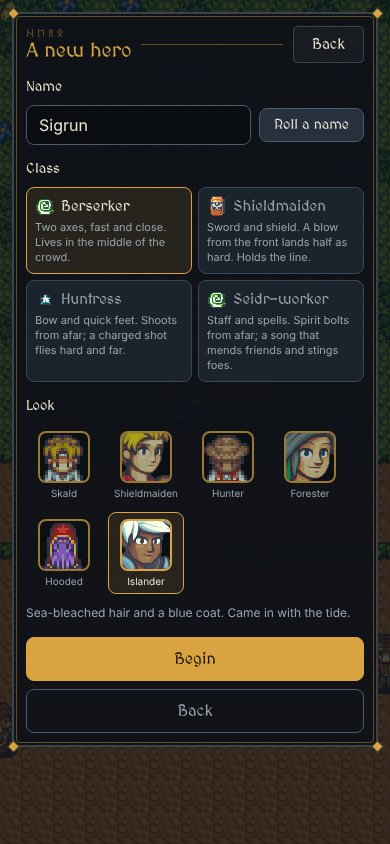
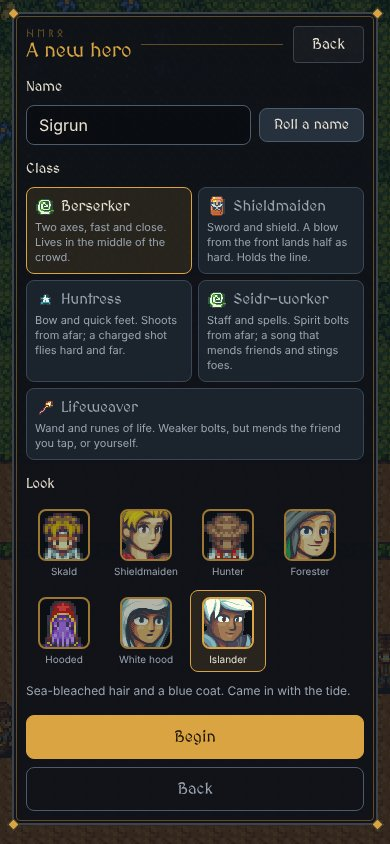
Wolf Age: the Lifeweaver, a fifth class, in the guides (#9)
Claude-Session: https://claude.ai/code/session_01782qVdpWQbS5EEfmEgoWu7

Changed region(s): [[0.0308, 0.4621, 0.9846, 0.9858], [0.9231, 0.4621, 0.9538, 0.5237]]

diff --git a/wolf-age/HANDBOOK.md b/wolf-age/HANDBOOK.md
@@ -98,6 +98,8 @@ You choose a class when you make a hero. It decides your weapons, your two arts 
 |  |  | Thorn Ring | 14 | 8 s | Loose a ring of arrows all round. |
 | **Seidr-worker** | Staff and spells. Spirit bolts from afar; a song that mends friends and stings foes. | Spirit Walk | 10 | 7 s | Step through the weave and strike where you land. |
 |  |  | Galdr Song | 18 | 10 s | Mend every friend near you by a third of their health, and sting the foes about you. |
+| **Lifeweaver** | Wand and runes of life. Weaker bolts, but mends the friend you tap, or yourself. | Eir's Touch | 12 | 7 s | Mend the friend you tapped by a fifth of their health; with none tapped, whoever near is most hurt, you too. |
+|  |  | Shelter Rune | 16 | 10 s | A rune on the friend you tapped, or on you: blows land 30% lighter for 5 seconds, and it bursts on the beasts about them. |
 
 ## The skill trees
 
@@ -319,6 +321,52 @@ Health, life from every kill, and the four blessings. Its three columns: Bone, L
 
 Fire from Muspelheim, storm from Asgard, frost from Niflheim: spells for every class. The same for every class: see [the Nine Worlds](#nine-worlds) under the Berserker.
 
+### Lifeweaver
+
+#### Mending
+
+Your two arts and the bond that mends the friend you tapped. Its three columns: Eir's Touch, Bond, Shelter Rune.
+
+| Skill | Opens at | Ranks | Needs first | What it does |
+| --- | --- | --- | --- | --- |
+| Eir's Touch | 1 | 5 (top at level 43) | nothing | Mend the friend you tapped by a fifth of their health; with none tapped, whoever near is most hurt, you too. Each rank makes it stronger, +120% at rank 5. |
+| Life Thread | 6 | 5 (top at level 48) | nothing | 3% (27% at rank 5) more of the harm you deal mends the friend you tapped. |
+| Shelter Rune | 4 | 5 (top at level 46) | nothing | A rune on the friend you tapped, or on you: blows land 30% lighter for 5 seconds, and it bursts on the beasts about them. Each rank makes it stronger, +120% at rank 5. |
+| Soft Hands | 8 | 5 (top at level 50) | Eir's Touch | Eir's Touch mends 10% (90% at rank 5) more. |
+| Deep Well | 1 | 5 (top at level 43) | Life Thread | 10 (90 at rank 5) more mana. |
+| Rune Guard | 8 | 5 (top at level 50) | Shelter Rune | Shelter Rune strikes 10% (90% at rank 5) harder. |
+| Quick Hands | 12 | 5 (top at level 54) | Deep Well | Your arts are ready again 5% (45% at rank 5) sooner. |
+| Healing Spring | 20 | 1 (3 points) | Soft Hands rank 3 | Your arts cost 40% less mana. |
+| Hallowed Ground | 20 | 1 (3 points) | Rune Guard rank 3 | Your arts are ready again 15% sooner. |
+| Warm Hearth | 10 | 5 (top at level 52) | Quick Hands | Every kill gives back 2% (18% at rank 5) of your health. |
+| Second Wind | 50 | 1 (4 points) | Warm Hearth | Once a fight, when your health falls below a quarter, a third of it comes back. |
+| Eir's Blessing | 45 | 1 (4 points) | Healing Spring | Eir's Touch mends 35% more. |
+| Shelter Wall | 45 | 1 (4 points) | Hallowed Ground | Shelter Rune strikes 35% harder. |
+| Lif's Hope | 70 | 1 (5 points) | Second Wind, 15 points in the tree | 10% more of the harm you deal mends the friend you tapped. |
+
+#### Grove
+
+Health, Eir's Mending, War Cry and Iron Skin, and a well of mana that guards you. Its three columns: Bark, Life, Rune.
+
+| Skill | Opens at | Ranks | Needs first | What it does |
+| --- | --- | --- | --- | --- |
+| Oak Heart | 3 | 5 (top at level 45) | nothing | 6% (54% at rank 5) more health. |
+| Eir's Mending | 3 | 5 (top at level 45) | nothing | Spell: Heals 20% (36% at rank 5) of your health at once. |
+| War Cry | 1 | 5 (top at level 43) | nothing | Spell: Your blows land 25% (53% at rank 5) harder for 8 seconds. |
+| Bark Skin | 10 | 5 (top at level 52) | Oak Heart | 4% (36% at rank 5) more health. |
+| Blood Drinker | 8 | 5 (top at level 50) | Eir's Mending | Every kill gives back 3% (27% at rank 5) of your health. |
+| Iron Skin | 6 | 5 (top at level 48) | War Cry | Spell: Blows on you hurt 30% (50% at rank 5) less for 8 seconds. |
+| Quick Wits | 6 | 5 (top at level 48) | Iron Skin | Spells are ready again 6% (54% at rank 5) sooner. |
+| Deep Roots | 25 | 1 (3 points) | Bark Skin rank 3 | 25% of every blow you take strikes back at the beast that dealt it. |
+| Rune Lore | 12 | 5 (top at level 54) | Quick Wits | Your spells cost 4% (20% at rank 5) less mana. |
+| Mana Shield | 25 | 1 (3 points) | Blood Drinker rank 3 | 15% of every blow you take is paid from your mana, two mana for each point of health, while it lasts. |
+| Jord's Strength | 62 | 1 (5 points) | Deep Roots, 15 points in the tree | 12% more health. |
+| Valkyrie's Grace | 75 | 1 (5 points) | Mana Shield, 15 points in the tree | 3% of the harm you deal comes back to you as health. |
+
+#### Nine Worlds
+
+Fire from Muspelheim, storm from Asgard, frost from Niflheim: spells for every class. The same for every class: see [the Nine Worlds](#nine-worlds) under the Berserker.
+
 ## Spells
 
 Spells are learnt in the skill tree and cast from your 2 spell slots; the Skills screen chooses which spells sit on the buttons. Each has 5 ranks. The mana is the price up to level 30, after which it grows with your mana. Fire leaves a beast burning, frost freezes it, storm strikes all round.
@@ -358,7 +406,7 @@ On the Gods tab you pledge yourself to one god. Each gives two blessings that gr
 
 Gear goes in six slots: head, body, legs, weapon, shield and amulet. It adds health, attack, defence and mana, and better pieces add critical hits, blocks, gold or experience. Finds come common, uncommon or rare, and named treasures carry a power of their own. Smiths sell gear, healers sell draughts.
 
-Each class has its weapons: swords, axes, spears, hammers and shields for the Berserker and the Shieldmaiden, bows for the Huntress, staffs for the Seidr-worker. Bows, staffs and great axes take both hands. A Berserker may hold a second one-handed weapon in the off hand instead of a shield; it gives a quarter of its stats.
+Each class has its weapons: swords, axes, spears, hammers and shields for the Berserker and the Shieldmaiden, bows for the Huntress, staffs for the Seidr-worker, wands for the Lifeweaver. Bows, staffs, wands and great axes take both hands. A Berserker may hold a second one-handed weapon in the off hand instead of a shield; it gives a quarter of its stats.
 
 Every class has armour sets made for it, the first from level 8 and the last from level 85. Two pieces of a set worn add a bonus, all four add another on top. Beasts of a set's levels now and then leave a piece, most often of your own class's set; the Backpack shows how far each set you wear is complete.
 
@@ -382,6 +430,9 @@ Gear comes in tiers, each from a level: tier 1 from level 1, tier 2 from level 8
 | Spae-wife | Seidr-worker | 8 | Spae-wife hood, Spae-wife robe, Spae-wife slippers, Spae-wife charm | +10 mana. | +0.3 % mana a second. |
 | Seer's weave | Seidr-worker | 38 | Seer's weave hood, Seer's weave robe, Seer's weave slippers, Seer's weave charm | +25 mana. | +25 mana, +1 % mana a second. |
 | Norn-thread | Seidr-worker | 85 | Norn-thread hood, Norn-thread robe, Norn-thread slippers, Norn-thread charm | +40 mana. | +1.5 % mana a second, skills ready 3 % sooner. |
+| Herb-gatherer | Lifeweaver | 8 | Herb-gatherer hood, Herb-gatherer smock, Herb-gatherer boots, Herb-gatherer pouch | +10 max HP. | skills ready 2 % sooner. |
+| Lyfjaberg | Lifeweaver | 38 | Lyfjaberg hood, Lyfjaberg robe, Lyfjaberg slippers, Lyfjaberg stone | +20 mana. | +30 max HP, skills ready 3 % sooner. |
+| Eir's mantle | Lifeweaver | 85 | Eir's mantle hood, Eir's mantle robe, Eir's mantle slippers, Eir's mantle charm | +30 max HP, +35 mana. | +1 % mana a second, skills ready 5 % sooner. |
 
 ### The forge
 

diff --git a/wolf-age/FAQ.md b/wolf-age/FAQ.md
@@ -16,6 +16,10 @@ On the device you play on, in the browser's storage or the app's data, and nothi
 
 Yes. Sign in, press Play together on the title screen, and make a hero for the worlds or take one of your solo heroes online; an account holds up to 6 online heroes and plays one at a time. Each world holds up to 100 heroes and is peaceful or PvP; in a PvP world other heroes may fight you anywhere outside a village. Together you hunt, trade at the market, and go as a party of two to four into the raid halls.
 
+**How does the Lifeweaver mend others?**
+
+Tap another hero to bind to them; a green ring marks them. Eir's Touch mends them, Shelter Rune shelters them, and 20% of the harm you deal to beasts mends them too, from up to about 8 tiles away. Tap open ground to let go. With nobody bound, Eir's Touch mends whoever near you is most hurt, and your blows land harder. You can mend only heroes at peace with you: in a PvP world, off a village's safe ground, only yourself.
+
 **Can I change how a myth ends?**
 
 No. Every main saga is a real myth from the Eddas and keeps its real ending: Thor loses to Elli, Baldr dies. You choose how the story gets there, and the retelling at the end asks what happened. Where the game invents something, the quest log says so.

diff --git a/wolf-age/RELEASE_NOTES.md b/wolf-age/RELEASE_NOTES.md
@@ -4,6 +4,7 @@ The newest changes come first. The game is played at https://fight.nornloom.com.
 
 ## 16 November 2026
 
+- **A new class, the Lifeweaver**: a healer with a wand and runes of life. Its blows are the lightest of all, but it keeps others standing. Tap another hero to bind to them: Eir's Touch mends them, the Shelter Rune makes blows on them land lighter, and part of every blow you land mends them too. Alone, a Lifeweaver strikes harder and mends itself, so it plays solo as well. It has its own wands, two skill trees and three armour sets. In a PvP world, outside a village, it can mend only itself.
 - **The shared worlds play like solo**: the same screen, name tags over every hero, the Bag and the Skills, zoom in and out, smoother walking.
 - **Quests online**: villagers stand in the shared worlds and give, follow and reward quests and riddles; shops, the smith, the healer, waystones, stables and temples all work there.
 - **Strongboxes, caves and treasure maps online**: open a strongbox and fight its guardian, walk through cave mouths and stronghold gates into caves shared with your world, and dig up the hoards your maps lead to.

diff --git a/wolf-age/TUTORIAL.md b/wolf-age/TUTORIAL.md
@@ -40,6 +40,7 @@ Type a name or press **Roll a name**. Then choose a class, which decides how you
 | **Shieldmaiden** | Sword and shield. A blow from the front lands half as hard. Holds the line. | Shield Rush and Ring of Iron |
 | **Huntress** | Bow and quick feet. Shoots from afar; a charged shot flies hard and far. | Fox Step and Thorn Ring |
 | **Seidr-worker** | Staff and spells. Spirit bolts from afar; a song that mends friends and stings foes. | Spirit Walk and Galdr Song |
+| **Lifeweaver** | Wand and runes of life. Weaker bolts, but mends the friend you tap, or yourself. | Eir's Touch and Shelter Rune |
 
 Not sure? The **Berserker** is the simplest to start with: stand next to a beast and keep hitting. You can take up another class later, for gold, at the Skills screen.
 
